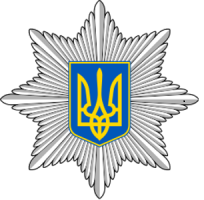
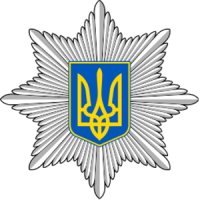
upgrade HERO
Replace the images in the hero section and remove the animation

diff --git a/src/styles/App.css b/src/styles/App.css
@@ -91,7 +91,7 @@ body {
   height: 100%;
   object-fit: contain;
   filter: drop-shadow(0 4px 8px rgba(0, 0, 0, 0.2));
-  animation: float 3s ease-in-out infinite;
+  /* animation: float 3s ease-in-out infinite; */
 }
 
 @keyframes float {
@@ -188,7 +188,7 @@ body {
   align-items: center;
   justify-content: center;
   z-index: 999;
-  box-shadow: 
+  box-shadow:
     0 6px 24px rgba(102, 126, 234, 0.12),
     0 3px 12px rgba(102, 126, 234, 0.08),
     inset 0 1px 0 rgba(255, 255, 255, 0.25);
@@ -202,7 +202,7 @@ body {
 
 .scroll-to-top:hover {
   transform: translateY(-3px);
-  box-shadow: 
+  box-shadow:
     0 10px 32px rgba(102, 126, 234, 0.18),
     0 4px 16px rgba(102, 126, 234, 0.12),
     inset 0 1px 0 rgba(255, 255, 255, 0.3);
@@ -212,7 +212,7 @@ body {
 
 .scroll-to-top:active {
   transform: translateY(-1px);
-  box-shadow: 
+  box-shadow:
     0 4px 12px rgba(102, 126, 234, 0.15),
     0 2px 6px rgba(102, 126, 234, 0.08),
     inset 0 1px 0 rgba(255, 255, 255, 0.25);
